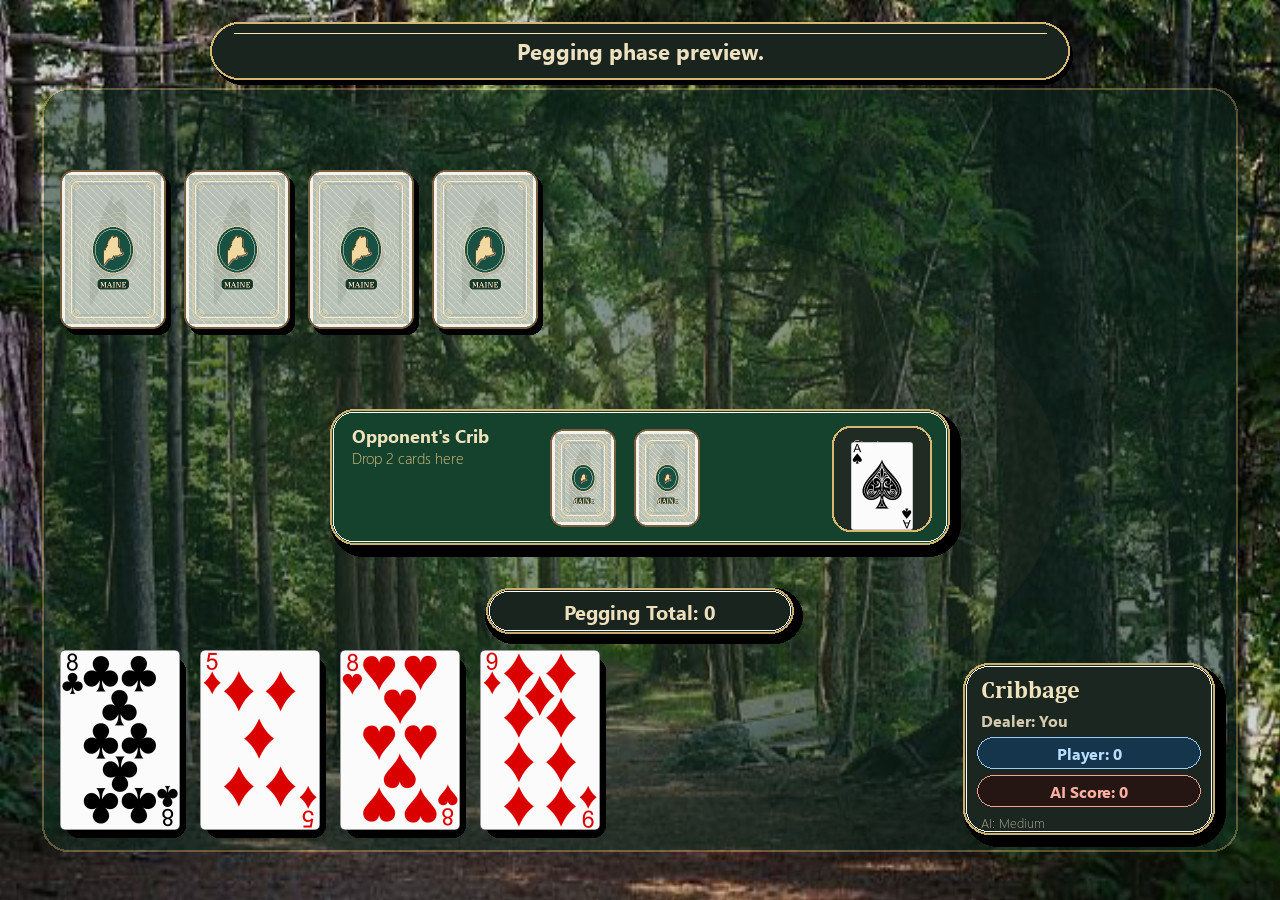
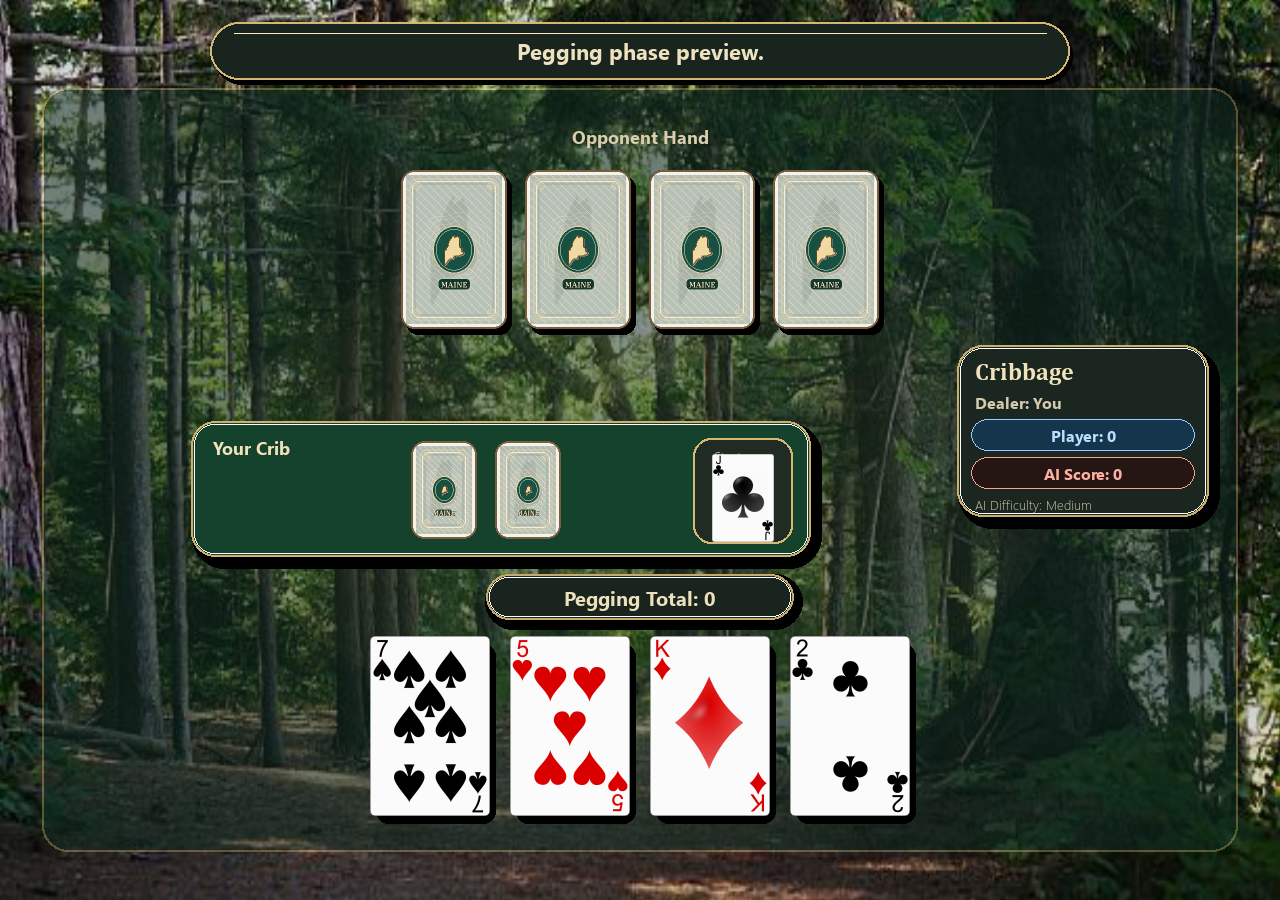
feat: player name, W/L badge, hand_scored event, persona crib/hand lines
- GameSettings.player_name field (default 'Player', 24-char cap, load/save)
- Settings modal: editable Your Name field replaces decorative strap
- Intro screen: W/L stats badge showing player name and win/loss record
- player_name global initialized from settings on startup; synced in _persist_settings
- bert_persona: hand_scored and crib_scored events for both downeast and robot styles
- handle_counting: fires hand_scored Bert event on non-terminal rounds
- Import get_player_profile in cribbage_pygame
- Tests: 3 new settings tests, 3 new persona tests (98 total, all passing)

diff --git a/tools/generate_layout_mockups.py b/tools/generate_layout_mockups.py
@@ -1,0 +1,136 @@
+from __future__ import annotations
+
+import pygame
+
+WIDTH, HEIGHT = 1280, 900
+OUT = "screenshots"
+
+
+def save(surface: pygame.Surface, name: str) -> None:
+    pygame.image.save(surface, f"{OUT}/{name}")
+
+
+def draw_title(surface: pygame.Surface, text: str) -> None:
+    font = pygame.font.SysFont("segoe ui", 42, bold=True)
+    subtitle = pygame.font.SysFont("segoe ui", 24)
+    t = font.render(text, True, (245, 245, 245))
+    s = subtitle.render("Concept mockup (visual direction only)", True, (196, 196, 196))
+    surface.blit(t, (48, 30))
+    surface.blit(s, (48, 82))
+
+
+def broadcast_table() -> pygame.Surface:
+    s = pygame.Surface((WIDTH, HEIGHT))
+    s.fill((21, 39, 29))
+
+    # Top strip
+    pygame.draw.rect(s, (11, 27, 20), (36, 126, WIDTH - 72, 70), border_radius=22)
+    pygame.draw.rect(s, (210, 188, 125), (36, 126, WIDTH - 72, 70), 2, border_radius=22)
+
+    # Center lane
+    pygame.draw.rect(s, (16, 54, 40), (250, 280, 780, 230), border_radius=30)
+    pygame.draw.rect(s, (196, 171, 105), (250, 280, 780, 230), 2, border_radius=30)
+    pygame.draw.circle(s, (23, 67, 50), (640, 395), 92)
+    pygame.draw.circle(s, (230, 206, 149), (640, 395), 2, 92)
+
+    # Side dock
+    pygame.draw.rect(s, (18, 34, 27), (1046, 236, 190, 390), border_radius=24)
+    pygame.draw.rect(s, (211, 188, 125), (1046, 236, 190, 390), 2, border_radius=24)
+
+    # Bottom player rail
+    pygame.draw.rect(s, (14, 29, 22), (100, 650, 1080, 180), border_radius=24)
+    pygame.draw.rect(s, (198, 173, 109), (100, 650, 1080, 180), 2, border_radius=24)
+    x = 160
+    for _ in range(6):
+        pygame.draw.rect(s, (238, 238, 238), (x, 680, 132, 138), border_radius=12)
+        pygame.draw.rect(s, (60, 60, 60), (x, 680, 132, 138), 1, border_radius=12)
+        x += 160
+
+    draw_title(s, "Style 1: Broadcast Table")
+    return s
+
+
+def competitive_minimal() -> pygame.Surface:
+    s = pygame.Surface((WIDTH, HEIGHT))
+    s.fill((15, 16, 20))
+
+    # Minimal grid accents
+    for x in range(80, WIDTH, 140):
+        pygame.draw.line(s, (28, 30, 36), (x, 130), (x, HEIGHT - 80), 1)
+    for y in range(180, HEIGHT, 120):
+        pygame.draw.line(s, (28, 30, 36), (60, y), (WIDTH - 60, y), 1)
+
+    # Compact HUD chips
+    pygame.draw.rect(s, (23, 27, 34), (52, 32, 180, 54), border_radius=20)
+    pygame.draw.rect(s, (23, 27, 34), (WIDTH - 232, 32, 180, 54), border_radius=20)
+
+    # Center board
+    pygame.draw.rect(s, (21, 24, 31), (300, 250, 680, 330), border_radius=18)
+    pygame.draw.rect(s, (96, 110, 136), (300, 250, 680, 330), 1, border_radius=18)
+    pygame.draw.circle(s, (27, 35, 45), (640, 415), 110)
+    pygame.draw.circle(s, (135, 160, 204), (640, 415), 2, 110)
+
+    # Bottom hand rail
+    pygame.draw.rect(s, (18, 20, 27), (180, 660, 920, 150), border_radius=14)
+    pygame.draw.rect(s, (100, 115, 140), (180, 660, 920, 150), 1, border_radius=14)
+    x = 240
+    for _ in range(6):
+        pygame.draw.rect(s, (240, 240, 240), (x, 686, 110, 112), border_radius=8)
+        pygame.draw.rect(s, (70, 70, 70), (x, 686, 110, 112), 1, border_radius=8)
+        x += 136
+
+    draw_title(s, "Style 2: Competitive Minimal")
+    return s
+
+
+def premium_tabletop() -> pygame.Surface:
+    s = pygame.Surface((WIDTH, HEIGHT))
+    s.fill((58, 36, 20))
+
+    # Felt inlaid board
+    pygame.draw.rect(s, (92, 58, 30), (26, 26, WIDTH - 52, HEIGHT - 52), border_radius=36)
+    pygame.draw.rect(s, (25, 79, 52), (58, 58, WIDTH - 116, HEIGHT - 116), border_radius=30)
+    pygame.draw.rect(s, (225, 191, 124), (58, 58, WIDTH - 116, HEIGHT - 116), 2, border_radius=30)
+
+    # Curved message bar
+    pygame.draw.rect(s, (14, 43, 31), (210, 96, 860, 74), border_radius=34)
+    pygame.draw.rect(s, (233, 207, 151), (210, 96, 860, 74), 2, border_radius=34)
+
+    # Crib/starter panel
+    pygame.draw.rect(s, (18, 68, 43), (208, 366, 690, 170), border_radius=28)
+    pygame.draw.rect(s, (226, 198, 142), (208, 366, 690, 170), 2, border_radius=28)
+
+    # Right score plaque
+    pygame.draw.rect(s, (17, 45, 34), (936, 280, 256, 260), border_radius=26)
+    pygame.draw.rect(s, (236, 208, 149), (936, 280, 256, 260), 2, border_radius=26)
+
+    # Premium cards
+    x = 332
+    for _ in range(4):
+        pygame.draw.rect(s, (245, 245, 245), (x, 644, 134, 170), border_radius=14)
+        pygame.draw.rect(s, (72, 72, 72), (x, 644, 134, 170), 1, border_radius=14)
+        x += 156
+
+    # Opponent cards
+    x = 372
+    for _ in range(4):
+        pygame.draw.rect(s, (217, 224, 217), (x, 204, 116, 148), border_radius=12)
+        pygame.draw.rect(s, (90, 90, 90), (x, 204, 116, 148), 1, border_radius=12)
+        x += 142
+
+    draw_title(s, "Style 3: Premium Tabletop")
+    return s
+
+
+def main() -> None:
+    pygame.init()
+    pygame.font.init()
+
+    save(broadcast_table(), "layout_broadcast_table.png")
+    save(competitive_minimal(), "layout_competitive_minimal.png")
+    save(premium_tabletop(), "layout_premium_tabletop.png")
+    print("Saved 3 layout mockups to screenshots/")
+
+
+if __name__ == "__main__":
+    main()

diff --git a/cribbage_pygame.py b/cribbage_pygame.py
@@ -27,7 +27,7 @@ from engine import CribbageEngine
 from game_state import GameState
 from phase_states import PhaseStateMachine
 from settings_manager import GameSettings, load_settings, save_settings
-from stats_manager import record_game_result, record_hand_stats
+from stats_manager import get_player_profile, record_game_result, record_hand_stats
 from voice_manager import VoiceManager
 
 # --- Constants ---
@@ -1434,6 +1434,7 @@ def handle_counting():
     w = _check_for_winner()
     if w is None:
         s.message = "Round counted. Review the scoring popup and press R for next round."
+        _speak_bert_event("hand_scored")
         _transition_phase("end")
     else:
         _record_single_player_game_result(w)
@@ -1510,6 +1511,7 @@ def main():
     _SETTINGS.clamp()
     _UI_STYLE = _SETTINGS.ui_style
     save_settings(_SETTINGS)
+    player_name = _SETTINGS.player_name or "Player"
 
     capture_video_path = Path(args.capture_video).resolve() if capture_video_pending else None
     capture_video_frames_dir = None
@@ -1789,6 +1791,7 @@ def main():
     settings_rvc_exe_rect = None
     settings_rvc_model_rect = None
     settings_rvc_index_rect = None
+    settings_player_name_rect = None
     settings_text_active = None
     difficulty_descriptions = {
         1: "Random play\nEasy wins",
@@ -1818,7 +1821,10 @@ def main():
         subprocess.Popen(cmd, cwd=str(_ROOT_DIR))
 
     def _persist_settings() -> None:
+        global player_name
+        _SETTINGS.player_name = _SETTINGS.player_name or "Player"
         save_settings(_SETTINGS)
+        player_name = _SETTINGS.player_name
         if _AUDIO is not None:
             _AUDIO.set_volume(_SETTINGS.volume)
         if _VOICE is not None:
@@ -1884,6 +1890,8 @@ def main():
         return "..." + cleaned[-59:]
 
     def _get_text_field_value(field: str) -> str:
+        if field == "player_name":
+            return _SETTINGS.player_name
         if field == "local_exe":
             return _SETTINGS.bert_local_exe_path
         if field == "local_model":
@@ -1897,7 +1905,9 @@ def main():
         return ""
 
     def _set_text_field_value(field: str, value: str) -> None:
-        if field == "local_exe":
+        if field == "player_name":
+            _SETTINGS.player_name = value[:24]
+        elif field == "local_exe":
             _SETTINGS.bert_local_exe_path = value
         elif field == "local_model":
             _SETTINGS.bert_local_model_path = value
@@ -1957,6 +1967,7 @@ def main():
         nonlocal settings_rvc_pitch_right_rect, settings_voice_test_rect
         nonlocal settings_local_exe_rect, settings_local_model_rect
         nonlocal settings_rvc_exe_rect, settings_rvc_model_rect, settings_rvc_index_rect
+        nonlocal settings_player_name_rect
         nonlocal settings_text_active
         overlay = pygame.Surface((sw, sh), pygame.SRCALPHA)
         overlay.fill((0, 0, 0, 150))
@@ -1978,6 +1989,33 @@ def main():
 
         strap = small_font.render("Tune the table before the next hand.", True, (216, 198, 171))
         screen.blit(strap, (modal.centerx - strap.get_width() // 2, modal.y + 56))
+
+        name_label = small_font.render("Your Name:", True, (216, 198, 171))
+        screen.blit(name_label, (modal.x + 28, modal.y + 82))
+        settings_player_name_rect = pygame.Rect(modal.x + 122, modal.y + 76, 196, 28)
+        _name_active = settings_text_active == "player_name"
+        pygame.draw.rect(
+            screen,
+            (68, 60, 52) if _name_active else (48, 42, 36),
+            settings_player_name_rect,
+            border_radius=10,
+        )
+        pygame.draw.rect(
+            screen,
+            (255, 237, 172) if _name_active else (180, 162, 130),
+            settings_player_name_rect,
+            width=2,
+            border_radius=10,
+        )
+        _name_disp = small_font.render(
+            (_SETTINGS.player_name or "Player") + ("|" if _name_active else ""),
+            True,
+            (239, 234, 222),
+        )
+        screen.blit(
+            _name_disp,
+            (settings_player_name_rect.x + 8, settings_player_name_rect.centery - _name_disp.get_height() // 2),
+        )
 
         vol_label = body_font.render(
             f"Volume: {int(_SETTINGS.volume * 100)}%", True, (245, 236, 218)
@@ -2398,6 +2436,25 @@ def main():
                         warn_rect.centery - warn_surface.get_height() // 2,
                     ),
                 )
+
+            # Player W/L stats badge (always shown above the panel)
+            _profile = get_player_profile(player_name)
+            _badge_font = pygame.font.SysFont("segoe ui", 15)
+            _stats_y = subtitle_small_y + subtitle_small.get_height() + (54 if voice_warning else 14)
+            _name_surf = _badge_font.render(player_name, True, (239, 229, 205))
+            _wl_surf = _badge_font.render(
+                f"  \u2014  {_profile['wins']}W / {_profile['losses']}L", True, (162, 202, 168)
+            )
+            _badge_total_w = _name_surf.get_width() + _wl_surf.get_width() + 24
+            _badge_rect = pygame.Rect(sw // 2 - _badge_total_w // 2, _stats_y, _badge_total_w, 26)
+            _badge_surf = pygame.Surface(_badge_rect.size, pygame.SRCALPHA)
+            _badge_surf.fill((14, 34, 20, 180))
+            screen.blit(_badge_surf, _badge_rect.topleft)
+            pygame.draw.rect(screen, (84, 130, 92), _badge_rect, width=1, border_radius=8)
+            _bx = _badge_rect.x + 12
+            _by = _badge_rect.centery - _name_surf.get_height() // 2
+            screen.blit(_name_surf, (_bx, _by))
+            screen.blit(_wl_surf, (_bx + _name_surf.get_width(), _by))
 
             panel_w = min(980, max(640, sw - 120))
             panel_h = min(430, max(330, sh - 250))
@@ -2947,6 +3004,11 @@ def main():
                             and settings_rvc_index_rect.collidepoint(event.pos)
                         ):
                             settings_text_active = "rvc_index"
+                        elif (
+                            settings_player_name_rect is not None
+                            and settings_player_name_rect.collidepoint(event.pos)
+                        ):
+                            settings_text_active = "player_name"
                         else:
                             settings_text_active = None
                             settings_open = False

diff --git a/tests/test_settings_manager.py b/tests/test_settings_manager.py
@@ -67,3 +67,30 @@ def test_settings_clamp_clips_rvc_pitch_shift():
     clamped = settings.clamp()
 
     assert clamped.bert_rvc_pitch_shift == 24
+
+
+def test_settings_round_trip_includes_player_name(tmp_path):
+    path = tmp_path / "settings.json"
+    settings = GameSettings(player_name="Alice")
+
+    save_settings(settings, path=path)
+    loaded = load_settings(path=path)
+
+    assert loaded.player_name == "Alice"
+
+
+def test_settings_clamp_normalizes_empty_player_name():
+    settings = GameSettings(player_name="")
+
+    clamped = settings.clamp()
+
+    assert clamped.player_name == "Player"
+
+
+def test_settings_clamp_trims_and_caps_player_name():
+    settings = GameSettings(player_name="  " + "A" * 30 + "  ")
+
+    clamped = settings.clamp()
+
+    assert len(clamped.player_name) == 24
+    assert clamped.player_name == "A" * 24

diff --git a/tests/test_bert_persona.py b/tests/test_bert_persona.py
@@ -27,3 +27,24 @@ def test_choose_line_bert_plus_downeast_gets_strategy_suffix_for_key_events():
     line = bert_persona.choose_line("bert_won", "downeast", dad_ai_level=5)
 
     assert "Bert Plus saw that line two plays ago." in line
+
+
+def test_choose_line_hand_scored_returns_content():
+    downeast = bert_persona.choose_line("hand_scored", "downeast", dad_ai_level=4)
+    robot = bert_persona.choose_line("hand_scored", "robot", dad_ai_level=4)
+
+    assert downeast
+    assert robot
+
+
+def test_choose_line_crib_scored_returns_content():
+    downeast = bert_persona.choose_line("crib_scored", "downeast", dad_ai_level=4)
+    robot = bert_persona.choose_line("crib_scored", "robot", dad_ai_level=4)
+
+    assert downeast
+    assert robot
+
+
+def test_choose_line_hand_and_crib_scored_require_bert_level():
+    assert bert_persona.choose_line("hand_scored", "downeast", dad_ai_level=3) == ""
+    assert bert_persona.choose_line("crib_scored", "robot", dad_ai_level=2) == ""

diff --git a/bert_persona.py b/bert_persona.py
@@ -65,6 +65,16 @@ _DOWNEAST_LINES: dict[str, list[str]] = {
         "That's game for Bert. Shuffle up.",
         "Bert's got it. Nothin fancy, just clean play.",
     ],
+    "hand_scored": [
+        "Counted the hand. See them points add up?",
+        "Ayuh, them cahds tallied up nicely.",
+        "Hand's counted. That's the way of it.",
+    ],
+    "crib_scored": [
+        "Crib's in. Bert likes what he sees.",
+        "Ayuh, them crib cahds done their job.",
+        "Counted the crib. Every point earns.",
+    ],
 }
 
 _ROBOT_LINES: dict[str, list[str]] = {
@@ -79,6 +89,8 @@ _ROBOT_LINES: dict[str, list[str]] = {
     "pegging_31": ["THIRTY-ONE REACHED."],
     "player_won": ["RESULT: PLAYER VICTORY."],
     "bert_won": ["RESULT: BERT VICTORY."],
+    "hand_scored": ["HAND COUNT FINALIZED.", "SCORING COMPLETE."],
+    "crib_scored": ["CRIB EVALUATION COMPLETE.", "CRIB SCORED."],
 }
 
 

diff --git a/settings_manager.py b/settings_manager.py
@@ -23,6 +23,7 @@ class GameSettings:
     bert_rvc_model_path: str = ""
     bert_rvc_index_path: str = ""
     bert_rvc_pitch_shift: int = 0
+    player_name: str = "Player"
 
     def clamp(self) -> GameSettings:
         self.volume = max(0.0, min(1.0, float(self.volume)))
@@ -48,6 +49,7 @@ class GameSettings:
         self.bert_rvc_model_path = str(self.bert_rvc_model_path or "").strip()
         self.bert_rvc_index_path = str(self.bert_rvc_index_path or "").strip()
         self.bert_rvc_pitch_shift = int(max(-24, min(24, int(self.bert_rvc_pitch_shift))))
+        self.player_name = (str(self.player_name or "").strip() or "Player")[:24]
         return self
 
 
@@ -75,6 +77,7 @@ def load_settings(path: Path | None = None) -> GameSettings:
         bert_rvc_model_path=raw.get("bert_rvc_model_path", ""),
         bert_rvc_index_path=raw.get("bert_rvc_index_path", ""),
         bert_rvc_pitch_shift=raw.get("bert_rvc_pitch_shift", 0),
+        player_name=raw.get("player_name", "Player"),
     )
     return settings.clamp()
 